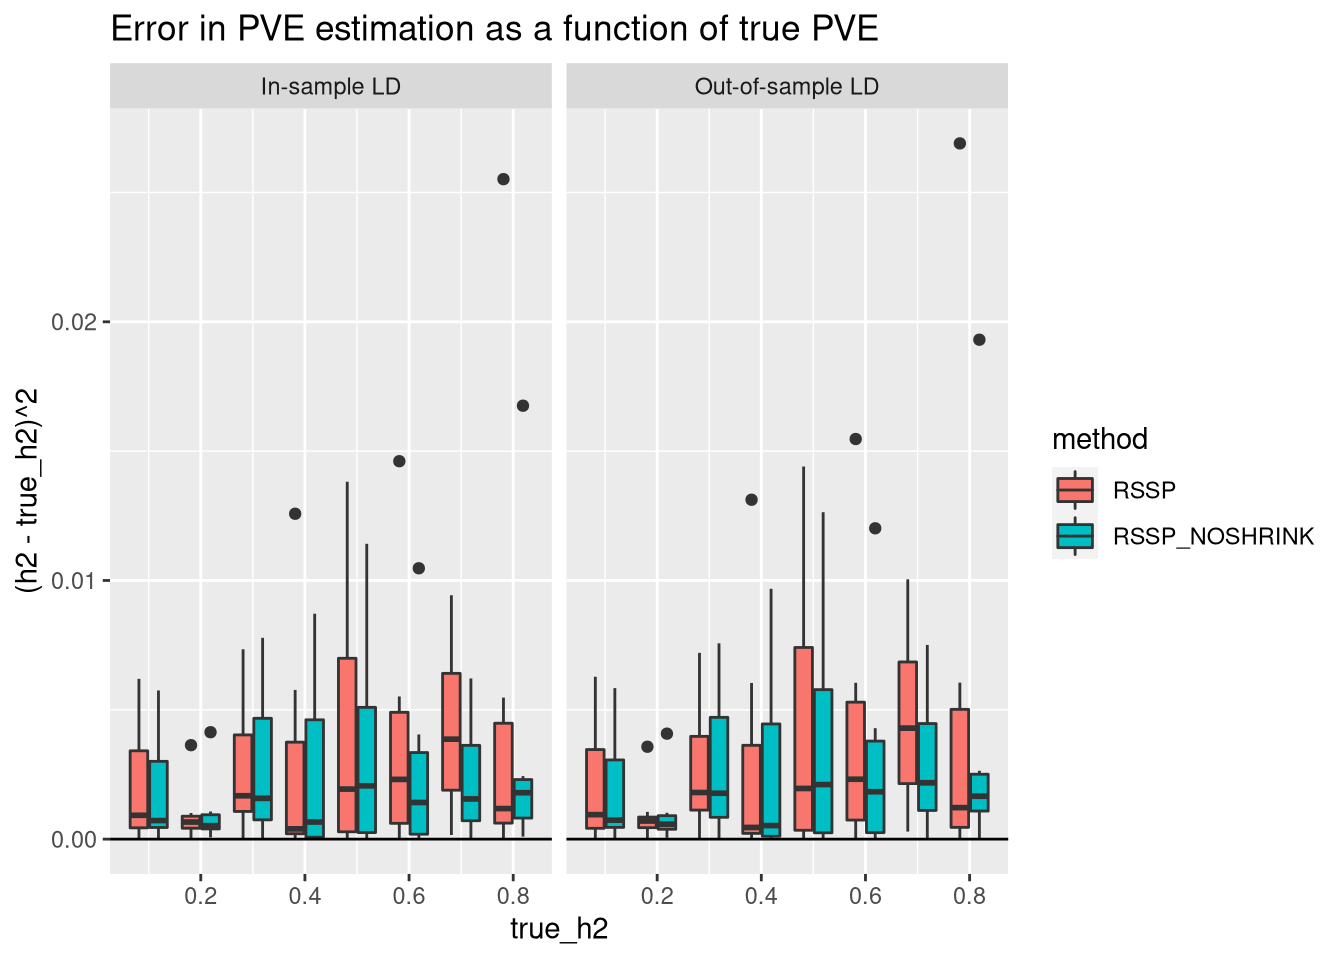
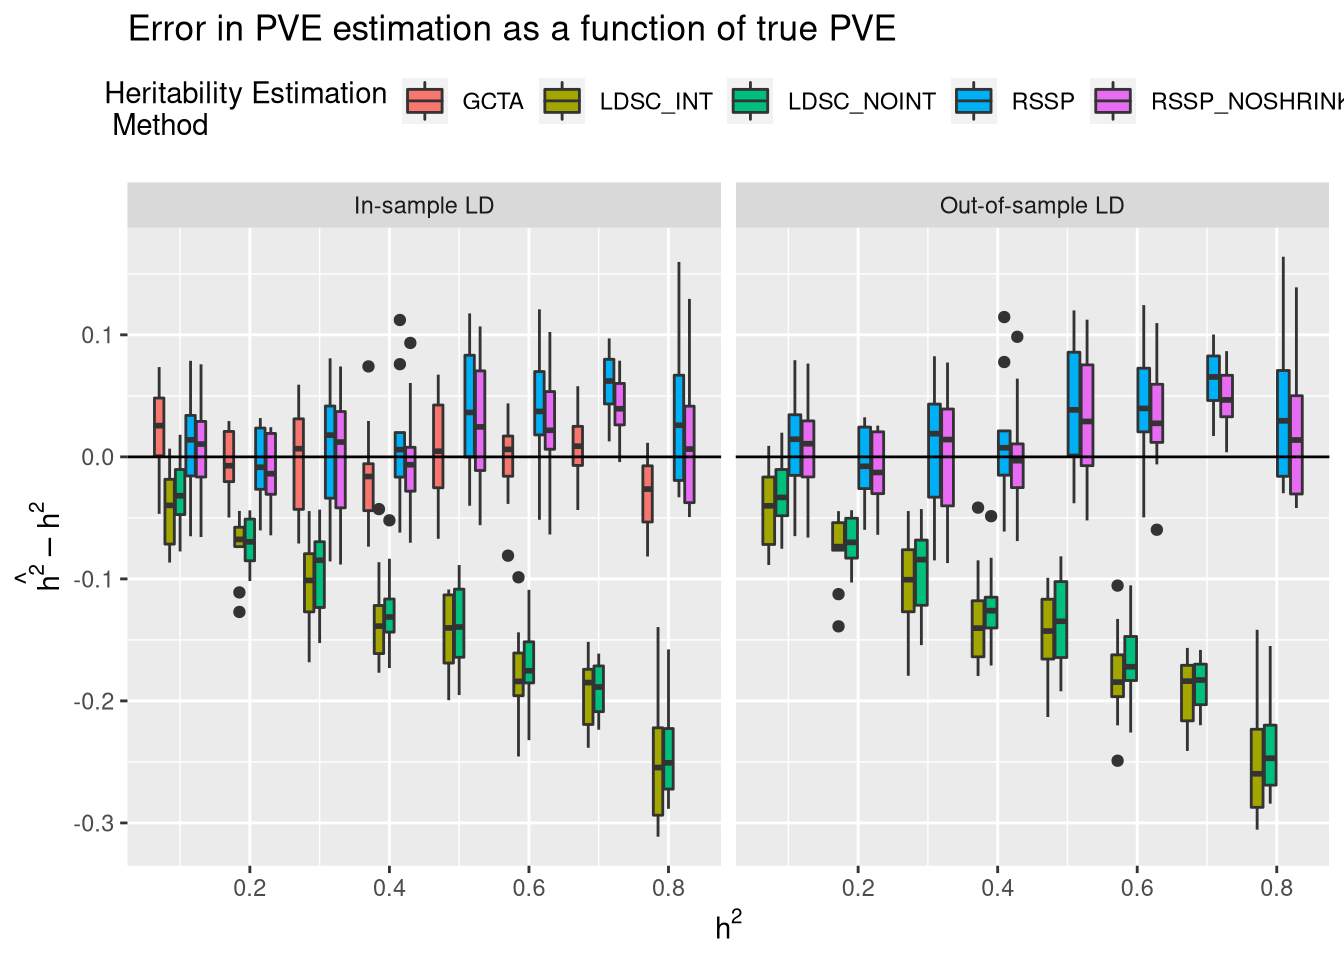
new layout for legend

diff --git a/docs/ukb_sim.html b/docs/ukb_sim.html
@@ -582,16 +582,16 @@ relative
 <div class="panel panel-default">
 <div class="panel-heading">
 <p class="panel-title">
-<a data-toggle="collapse" data-parent="#workflowr-checks" href="#strongRepositoryversionstrongahrefhttpsgithubcomCreRecombinasePolygenicRSStreeff96c01d9a115fd3947e324e404e0a55bb3cde4atargetblankff96c01a"> <span class="glyphicon glyphicon-ok text-success" aria-hidden="true"></span> <strong>Repository version:</strong> <a href="https://github.com/CreRecombinase/PolygenicRSS/tree/ff96c01d9a115fd3947e324e404e0a55bb3cde4a" target="_blank">ff96c01</a> </a>
+<a data-toggle="collapse" data-parent="#workflowr-checks" href="#strongRepositoryversionstrongahrefhttpsgithubcomCreRecombinasePolygenicRSStree8f911ac5a08966c55340aa1bf4174b0f5b8cdcadtargetblank8f911aca"> <span class="glyphicon glyphicon-ok text-success" aria-hidden="true"></span> <strong>Repository version:</strong> <a href="https://github.com/CreRecombinase/PolygenicRSS/tree/8f911ac5a08966c55340aa1bf4174b0f5b8cdcad" target="_blank">8f911ac</a> </a>
 </p>
 </div>
[2 lines of base64/hex data omitted]
 <div class="panel-body">
 <p>
 Great! You are using Git for version control. Tracking code development and connecting the code version to the results is critical for reproducibility.
 </p>
 <p>
-The results in this page were generated with repository version <a href="https://github.com/CreRecombinase/PolygenicRSS/tree/ff96c01d9a115fd3947e324e404e0a55bb3cde4a" target="_blank">ff96c01</a>. See the <em>Past versions</em> tab to see a history of the changes made to the R Markdown and HTML files.
+The results in this page were generated with repository version <a href="https://github.com/CreRecombinase/PolygenicRSS/tree/8f911ac5a08966c55340aa1bf4174b0f5b8cdcad" target="_blank">8f911ac</a>. See the <em>Past versions</em> tab to see a history of the changes made to the R Markdown and HTML files.
 </p>
 <p>
 Note that you need to be careful to ensure that all relevant files for the analysis have been committed to Git prior to generating the results (you can use <code>wflow_publish</code> or <code>wflow_git_commit</code>). workflowr only checks the R Markdown file, but you know if there are other scripts or data files that it depends on. Below is the status of the Git repository when the results were generated:
@@ -627,61 +627,10 @@ Ignored files:
     Ignored:    code/snakemake_files/temp_target_19.RDS
     Ignored:    code/workflow_params.json~
     Ignored:    data/rep_polygenic/
+    Ignored:    org/.Rhistory
 
 Untracked files:
     Untracked:  _workflowr.yml
-    Untracked:  analysis/AFvsp.Rmd
-    Untracked:  analysis/ChunkingEffect.Rmd
-    Untracked:  analysis/ChunkingLD.Rmd
-    Untracked:  analysis/ConfoundingSimulations.Rmd
-    Untracked:  analysis/DownSamplingResults.Rmd
-    Untracked:  analysis/EVD_SVD.Rmd
-    Untracked:  analysis/GREML_RSSp_UKB.Rmd
-    Untracked:  analysis/GRM_estimation.Rmd
-    Untracked:  analysis/GenomeWideSimulation.Rmd
-    Untracked:  analysis/LDshrink_effect.Rmd
-    Untracked:  analysis/MeetingSummary1.Rmd
-    Untracked:  analysis/Normalization.Rmd
-    Untracked:  analysis/Optimiation.org
-    Untracked:  analysis/Optimization.Rmd
-    Untracked:  analysis/RSSR_PolygenicData.Rmd
-    Untracked:  analysis/RSSp.stan
-    Untracked:  analysis/RSSp2.stan
-    Untracked:  analysis/RSSp_LDshrink.Rmd
-    Untracked:  analysis/RSSp_Large_WTCC_noConfounding.Rmd
-    Untracked:  analysis/RSSp_Largest_Simulation.Rmd
-    Untracked:  analysis/RSSp_WTCC_noConfounding.Rmd
-    Untracked:  analysis/RSSp_confounding.Rmd
-    Untracked:  analysis/RSSp_ldsc_highPVE_chr1.Rmd
-    Untracked:  analysis/RSSp_ldsc_highPVE_hr.Rmd
-    Untracked:  analysis/RSSp_ldsc_noConfounding.Rmd
-    Untracked:  analysis/Running_ldetect.Rmd
-    Untracked:  analysis/SPVE.Rmd
-    Untracked:  analysis/SharedSNPAnalysis (dell-desktop's conflicted copy 2018-09-04).Rmd
-    Untracked:  analysis/SharedSNPAnalysis.Rmd
-    Untracked:  analysis/Summary.Rmd
-    Untracked:  analysis/Summary.org
-    Untracked:  analysis/Vanilla_LDSC.Rmd
-    Untracked:  analysis/chr_16.Rmd
-    Untracked:  analysis/derby.log
-    Untracked:  analysis/direct_easy.Rmd
-    Untracked:  analysis/eQTL_Pipelines.Rmd
-    Untracked:  analysis/fquh_mod.RDS
-    Untracked:  analysis/importFramExp.Rmd
-    Untracked:  analysis/ldmap.org
-    Untracked:  analysis/ldshrink_test.Rmd
-    Untracked:  analysis/ltximg/
-    Untracked:  analysis/nquh_mod.RDS
-    Untracked:  analysis/out_res.RDS
-    Untracked:  analysis/pvv_opt.Rmd
-    Untracked:  analysis/quh_mod.RDS
-    Untracked:  analysis/scz_data.org
-    Untracked:  analysis/shrinkage_effect.Rmd
-    Untracked:  analysis/ukb_dl.Rmd
-    Untracked:  analysis/ukb_onec.Rmd
-    Untracked:  analysis/ukb_pve_confounding.Rmd
-    Untracked:  analysis/ukb_sim.md
-    Untracked:  analysis/ukb_sim.org
     Untracked:  code/.directory
     Untracked:  code/.ipynb_checkpoints/
     Untracked:  code/LD_raster.png
@@ -740,7 +689,6 @@ Untracked files:
     Untracked:  dosage.scan.RData
     Untracked:  dosage.snp.RData
     Untracked:  foobar.csv
-    Untracked:  org/
     Untracked:  output/FRAM/
     Untracked:  output/RSSp_snakemake/
     Untracked:  output/bd/
@@ -755,36 +703,6 @@ Untracked files:
 
 Unstaged changes:
     Modified:   PolygenicRSS.Rproj
-    Modified:   analysis/ConfoundingAdj.Rmd
-    Modified:   analysis/DownsamplingResults2.Rmd
-    Modified:   analysis/Exp_Heritability.Rmd
-    Modified:   analysis/IndependenceCheck.Rmd
-    Modified:   analysis/Meeting_Notes.Rmd
-    Modified:   analysis/New_WholeGenome.Rmd
-    Modified:   analysis/OutOfSampleLD.Rmd
-    Modified:   analysis/OutOfSampleLD_smallPVE.Rmd
-    Modified:   analysis/PolygenicEstimation.Rmd
-    Modified:   analysis/RSSP_standard_error.Rmd
-    Modified:   analysis/RSSp_Chunksize_Investigation.Rmd
-    Modified:   analysis/RSSp_Large_Simulation.Rmd
-    Modified:   analysis/RSSp_Posterior.Rmd
-    Modified:   analysis/RSSp_Prediction.Rmd
-    Modified:   analysis/RSSp_ldsc.Rmd
-    Modified:   analysis/RSSp_ldsc_gwas_direct_noConfounding.Rmd
-    Modified:   analysis/RSSp_ldsc_highPVE.Rmd
-    Modified:   analysis/SimulationPipeline.Rmd
-    Modified:   analysis/_site.yml
-    Modified:   analysis/about.Rmd
-    Modified:   analysis/chr_2.Rmd
-    Deleted:    analysis/chunks.R
-    Modified:   analysis/include/footer.html
-    Modified:   analysis/index.Rmd
-    Modified:   analysis/license.Rmd
-    Modified:   analysis/lnzDist.Rmd
-    Modified:   analysis/results.Rmd
-    Modified:   analysis/simulatingGWAS.Rmd
-    Modified:   analysis/simulation.Rmd
-    Modified:   analysis/ukb_pve.Rmd
     Modified:   analysis/ukb_sim.Rmd
     Modified:   code/TF_LDshrink.ipynb
     Modified:   code/dask_LDshrink.ipynb
@@ -835,6 +753,40 @@ Message
 </tr>
 </thead>
 <tbody>
+<tr>
+<td>
+Rmd
+</td>
+<td>
+<a href="https://github.com/CreRecombinase/PolygenicRSS/blob/8f911ac5a08966c55340aa1bf4174b0f5b8cdcad/analysis/ukb_sim.Rmd" target="_blank">8f911ac</a>
+</td>
+<td>
+CreRecombinase
+</td>
+<td>
+2020-11-06
+</td>
+<td>
+update with great ukb results
+</td>
+</tr>
+<tr>
+<td>
+html
+</td>
+<td>
+<a href="https://rawcdn.githack.com/CreRecombinase/PolygenicRSS/8f911ac5a08966c55340aa1bf4174b0f5b8cdcad/docs/ukb_sim.html" target="_blank">8f911ac</a>
+</td>
+<td>
+CreRecombinase
+</td>
+<td>
+2020-11-06
+</td>
+<td>
+update with great ukb results
+</td>
+</tr>
 <tr>
 <td>
 html
@@ -1001,6 +953,17 @@ Date
 <tbody>
 <tr>
 <td>
+<a href="https://github.com/CreRecombinase/PolygenicRSS/blob/8f911ac5a08966c55340aa1bf4174b0f5b8cdcad/docs/figure/ukb_sim.Rmd/unnamed-chunk-4-1.png" target="_blank">8f911ac</a>
+</td>
+<td>
+CreRecombinase
+</td>
+<td>
+2020-11-06
+</td>
+</tr>
+<tr>
+<td>
 <a href="https://github.com/CreRecombinase/PolygenicRSS/blob/ff96c01d9a115fd3947e324e404e0a55bb3cde4a/docs/figure/ukb_sim.Rmd/unnamed-chunk-4-1.png" target="_blank">ff96c01</a>
 </td>
 <td>
@@ -1036,10 +999,7 @@ CreRecombinase
 </table>
 </div>
 </div>
-<p>Overall RSSp outperforms LDSC across a broad range of heritability levels, and performs comparably to in-sample methods for heritability estimation. LDshrink does not seem to consistently or significantly improve performance. Most importantly perhaps, it appears that the issue of inflated PVE estimates as the true PVE increases has gone away. On the contrary, it appears that LDSC (with or without an intercept) is “deflated”: the method seems tounderstimate heritability for higher heritability traits in a predictable fashion.</p>
-<pre class="r"><code>rename(results_df,`Heritability Estimation\n Method`=method) %&gt;% 
-ggplot(aes(x=true_h2,y=h2-true_h2,group=interaction(`Heritability Estimation\n Method`,true_h2),fill=`Heritability Estimation\n Method`))+geom_boxplot()+facet_wrap(~ind)+ggtitle(&quot;Error in PVE estimation as a function of true PVE&quot;)+geom_hline(yintercept = 0)+xlab(bquote(h^2))+ylab(bquote(hat(h^2)-h^2))</code></pre>
-<p><img src="figure/ukb_sim.Rmd/unnamed-chunk-5-1.png" width="672" style="display: block; margin: auto;" /></p>
+<p>Here’s the same result with per-method trends and individual estimates. <img src="figure/ukb_sim.Rmd/unnamed-chunk-5-1.png" width="672" style="display: block; margin: auto;" /></p>
 <p>
 <button type="button" class="btn btn-default btn-xs btn-workflowr btn-workflowr-fig" data-toggle="collapse" data-target="#fig-unnamed-chunk-5-1">
 Past versions of unnamed-chunk-5-1.png
@@ -1062,6 +1022,17 @@ Date
 </tr>
 </thead>
 <tbody>
+<tr>
+<td>
+<a href="https://github.com/CreRecombinase/PolygenicRSS/blob/8f911ac5a08966c55340aa1bf4174b0f5b8cdcad/docs/figure/ukb_sim.Rmd/unnamed-chunk-5-1.png" target="_blank">8f911ac</a>
+</td>
+<td>
+CreRecombinase
+</td>
+<td>
+2020-11-06
+</td>
+</tr>
 <tr>
 <td>
 <a href="https://github.com/CreRecombinase/PolygenicRSS/blob/ff96c01d9a115fd3947e324e404e0a55bb3cde4a/docs/figure/ukb_sim.Rmd/unnamed-chunk-5-1.png" target="_blank">ff96c01</a>
@@ -1088,8 +1059,7 @@ CreRecombinase
 </table>
 </div>
 </div>
-<pre class="r"><code>filter(results_df,str_detect(method,&quot;RSSP&quot;)) %&gt;%
-  ggplot(aes(x=true_h2,y=(h2-true_h2)^2,group=interaction(method,true_h2),fill=method))+geom_boxplot()+facet_wrap(~ind)+ggtitle(&quot;Error in PVE estimation as a function of true PVE&quot;)+geom_hline(yintercept = 0)</code></pre>
+<p>Overall RSSp outperforms LDSC across a broad range of heritability levels, and performs comparably to in-sample methods for heritability estimation. LDshrink does not seem to consistently or significantly improve performance. Most importantly perhaps, it appears that the issue of inflated PVE estimates as the true PVE increases has gone away. On the contrary, it appears that LDSC (with or without an intercept) is “deflated”: the method seems tounderstimate heritability for higher heritability traits in a predictable fashion.</p>
 <p><img src="figure/ukb_sim.Rmd/unnamed-chunk-6-1.png" width="672" style="display: block; margin: auto;" /></p>
 <p>
 <button type="button" class="btn btn-default btn-xs btn-workflowr btn-workflowr-fig" data-toggle="collapse" data-target="#fig-unnamed-chunk-6-1">
@@ -1115,6 +1085,17 @@ Date
 <tbody>
 <tr>
 <td>
+<a href="https://github.com/CreRecombinase/PolygenicRSS/blob/8f911ac5a08966c55340aa1bf4174b0f5b8cdcad/docs/figure/ukb_sim.Rmd/unnamed-chunk-6-1.png" target="_blank">8f911ac</a>
+</td>
+<td>
+CreRecombinase
+</td>
+<td>
+2020-11-06
+</td>
+</tr>
+<tr>
+<td>
 <a href="https://github.com/CreRecombinase/PolygenicRSS/blob/ff96c01d9a115fd3947e324e404e0a55bb3cde4a/docs/figure/ukb_sim.Rmd/unnamed-chunk-6-1.png" target="_blank">ff96c01</a>
 </td>
 <td>
@@ -1128,10 +1109,8 @@ CreRecombinase
 </table>
 </div>
 </div>
-<p>If we just look at the two <code>RSSp</code> (with and without <code>LDshrink</code>), It looks like <code>RSSp</code> without <code>LDshrink</code> does a little better, but not much. What’s more striking is how close the in-sample and out-of-sample LD results are.</p>
 <pre class="r"><code>filter(results_df,str_detect(method,&quot;RSSP&quot;)) %&gt;%
-  group_by(method,true_h2,ind) %&gt;% 
-  summarise(error=mean((h2-true_h2)^2),error_sd=sd((h2-true_h2^2))) %&gt;% ggplot(aes(x=true_h2,y=error,group=interaction(true_h2,ind),fill=ind))+geom_col(position = &quot;dodge&quot;)+ylab(&quot;average squared error&quot;)+facet_wrap(~method)</code></pre>
+  ggplot(aes(x=true_h2,y=(h2-true_h2)^2,group=interaction(method,true_h2),fill=method))+geom_boxplot()+facet_wrap(~ind)+ggtitle(&quot;Error in PVE estimation as a function of true PVE&quot;)+geom_hline(yintercept = 0)+theme(legend.position = &quot;top&quot;)</code></pre>
 <p><img src="figure/ukb_sim.Rmd/unnamed-chunk-7-1.png" width="672" style="display: block; margin: auto;" /></p>
 <p>
 <button type="button" class="btn btn-default btn-xs btn-workflowr btn-workflowr-fig" data-toggle="collapse" data-target="#fig-unnamed-chunk-7-1">
@@ -1157,6 +1136,17 @@ Date
 <tbody>
 <tr>
 <td>
+<a href="https://github.com/CreRecombinase/PolygenicRSS/blob/8f911ac5a08966c55340aa1bf4174b0f5b8cdcad/docs/figure/ukb_sim.Rmd/unnamed-chunk-7-1.png" target="_blank">8f911ac</a>
+</td>
+<td>
+CreRecombinase
+</td>
+<td>
+2020-11-06
+</td>
+</tr>
+<tr>
+<td>
 <a href="https://github.com/CreRecombinase/PolygenicRSS/blob/ff96c01d9a115fd3947e324e404e0a55bb3cde4a/docs/figure/ukb_sim.Rmd/unnamed-chunk-7-1.png" target="_blank">ff96c01</a>
 </td>
 <td>
@@ -1170,6 +1160,11 @@ CreRecombinase
 </table>
 </div>
 </div>
+<p>If we just look at the two <code>RSSp</code> (with and without <code>LDshrink</code>), It looks like <code>RSSp</code> without <code>LDshrink</code> does a little better, but not much. What’s more striking is how close the in-sample and out-of-sample LD results are.</p>
+<pre class="r"><code>filter(results_df,str_detect(method,&quot;RSSP&quot;)) %&gt;%
+  group_by(method,true_h2,ind) %&gt;% 
+  summarise(error=mean((h2-true_h2)^2),error_sd=sd((h2-true_h2^2))) %&gt;% ggplot(aes(x=true_h2,y=error,group=interaction(true_h2,ind),fill=ind))+geom_col(position = &quot;dodge&quot;)+ylab(&quot;average squared error&quot;)+facet_wrap(~method)+theme(legend.position = &quot;top&quot;)</code></pre>
+<p><img src="figure/ukb_sim.Rmd/unnamed-chunk-8-1.png" width="672" style="display: block; margin: auto;" /></p>
 <pre class="r"><code>filter(results_df,str_detect(method,&quot;RSSP&quot;)) %&gt;%
   group_by(method,ind) %&gt;% 
   summarise(error=mean((h2-true_h2)^2),error_sd=sd((h2-true_h2^2))) </code></pre>
@@ -1215,24 +1210,25 @@ other attached packages:
 [17] ggplot2_3.3.2  
 
 loaded via a namespace (and not attached):
- [1] httr_1.4.2         bit64_4.0.5        jsonlite_1.7.1     viridisLite_0.3.0 
- [5] modelr_0.1.8       RcppParallel_5.0.2 assertthat_0.2.1   highr_0.8         
- [9] blob_1.2.1         cellranger_1.1.0   yaml_2.2.1         Rttf2pt1_1.3.8    
-[13] pillar_1.4.6       backports_1.1.10   glue_1.4.2         extrafontdb_1.0   
-[17] digest_0.6.27      promises_1.1.1     rvest_0.3.6        colorspace_1.4-1  
-[21] htmltools_0.5.0    httpuv_1.5.4       pkgconfig_2.0.3    broom_0.7.2       
-[25] haven_2.3.1        scales_1.1.1       whisker_0.4        later_1.1.0.1     
-[29] git2r_0.27.1       generics_0.0.2     farver_2.0.3       ellipsis_0.3.1    
-[33] withr_2.3.0        lazyeval_0.2.2     cli_2.1.0          crayon_1.3.4      
-[37] readxl_1.3.1       evaluate_0.14      fansi_0.4.1        xml2_1.3.2        
-[41] tools_4.0.3        data.table_1.13.2  hms_0.5.3          lifecycle_0.2.0   
-[45] munsell_0.5.0      reprex_0.3.0       compiler_4.0.3     rlang_0.4.8       
-[49] grid_4.0.3         rstudioapi_0.11    htmlwidgets_1.5.2  labeling_0.4.2    
-[53] rmarkdown_2.5      gtable_0.3.0       DBI_1.1.0          R6_2.5.0          
-[57] lubridate_1.7.9    knitr_1.30         utf8_1.1.4         bit_4.0.4         
-[61] extrafont_0.17     workflowr_1.6.2    rprojroot_1.3-2    stringi_1.5.3     
-[65] Rcpp_1.0.5         vctrs_0.3.4        dbplyr_1.4.4       tidyselect_1.1.0  
-[69] xfun_0.18         </code></pre>
+ [1] nlme_3.1-149       lubridate_1.7.9    bit64_4.0.5        httr_1.4.2        
+ [5] rprojroot_1.3-2    tools_4.0.3        backports_1.1.10   utf8_1.1.4        
+ [9] R6_2.5.0           DBI_1.1.0          lazyeval_0.2.2     mgcv_1.8-33       
+[13] colorspace_1.4-1   withr_2.3.0        tidyselect_1.1.0   bit_4.0.4         
+[17] compiler_4.0.3     git2r_0.27.1       extrafontdb_1.0    cli_2.1.0         
+[21] rvest_0.3.6        xml2_1.3.2         labeling_0.4.2     scales_1.1.1      
+[25] digest_0.6.27      rmarkdown_2.5      pkgconfig_2.0.3    htmltools_0.5.0   
+[29] extrafont_0.17     dbplyr_1.4.4       highr_0.8          htmlwidgets_1.5.2 
+[33] rlang_0.4.8        readxl_1.3.1       rstudioapi_0.11    farver_2.0.3      
+[37] generics_0.0.2     jsonlite_1.7.1     Matrix_1.2-18      Rcpp_1.0.5        
+[41] munsell_0.5.0      fansi_0.4.1        lifecycle_0.2.0    stringi_1.5.3     
+[45] whisker_0.4        yaml_2.2.1         grid_4.0.3         blob_1.2.1        
+[49] promises_1.1.1     crayon_1.3.4       lattice_0.20-41    haven_2.3.1       
+[53] splines_4.0.3      hms_0.5.3          knitr_1.30         pillar_1.4.6      
+[57] reprex_0.3.0       glue_1.4.2         evaluate_0.14      data.table_1.13.2 
+[61] RcppParallel_5.0.2 modelr_0.1.8       vctrs_0.3.4        httpuv_1.5.4      
+[65] Rttf2pt1_1.3.8     cellranger_1.1.0   gtable_0.3.0       assertthat_0.2.1  
+[69] xfun_0.18          broom_0.7.2        later_1.1.0.1      viridisLite_0.3.0 
+[73] workflowr_1.6.2    ellipsis_0.3.1    </code></pre>
 </div>
 </div>
 </div>
